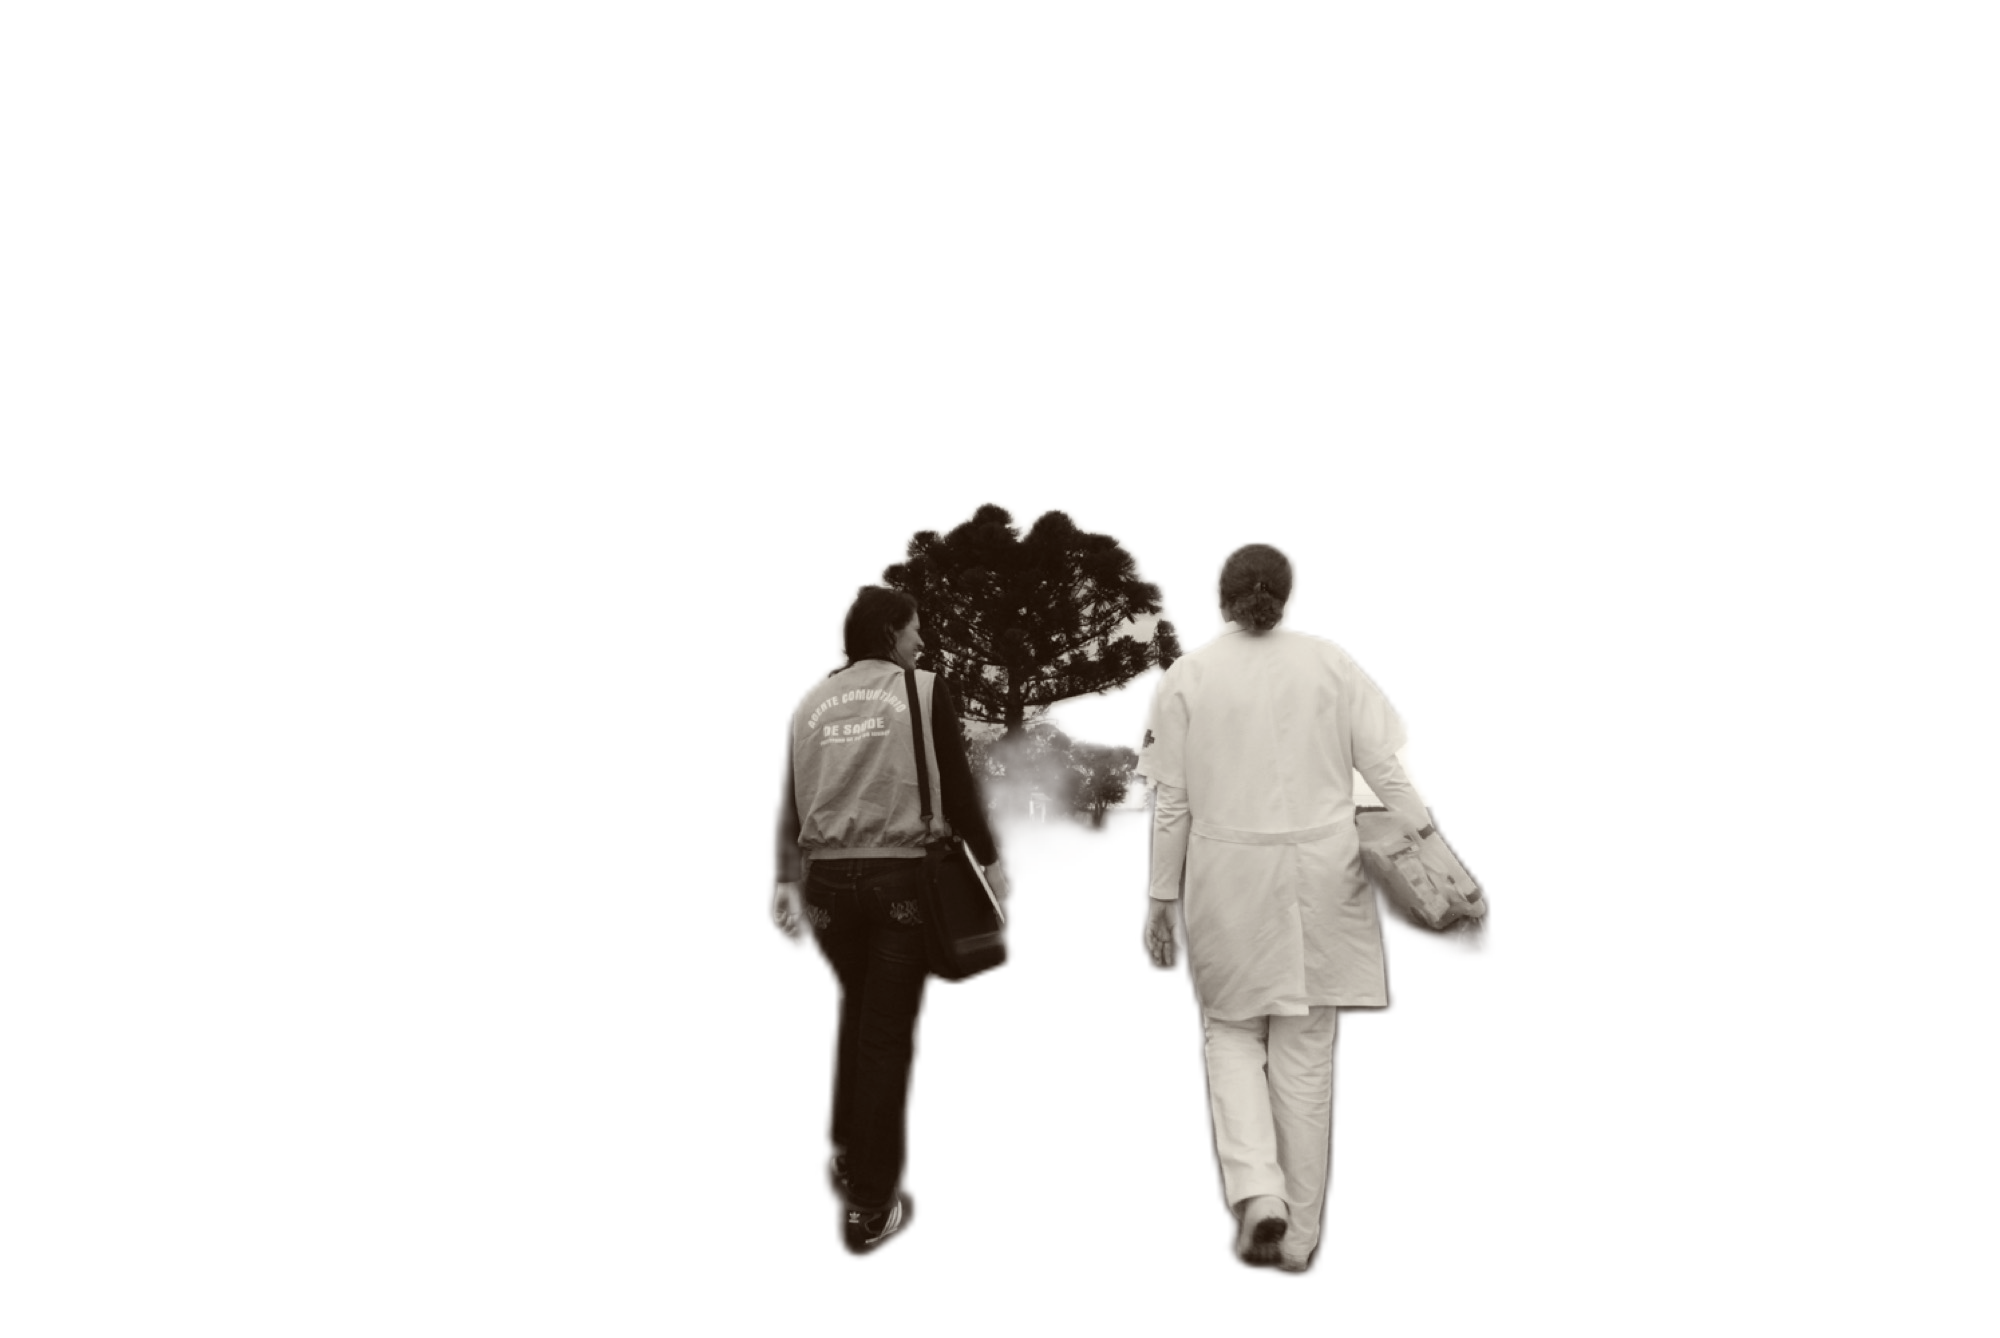
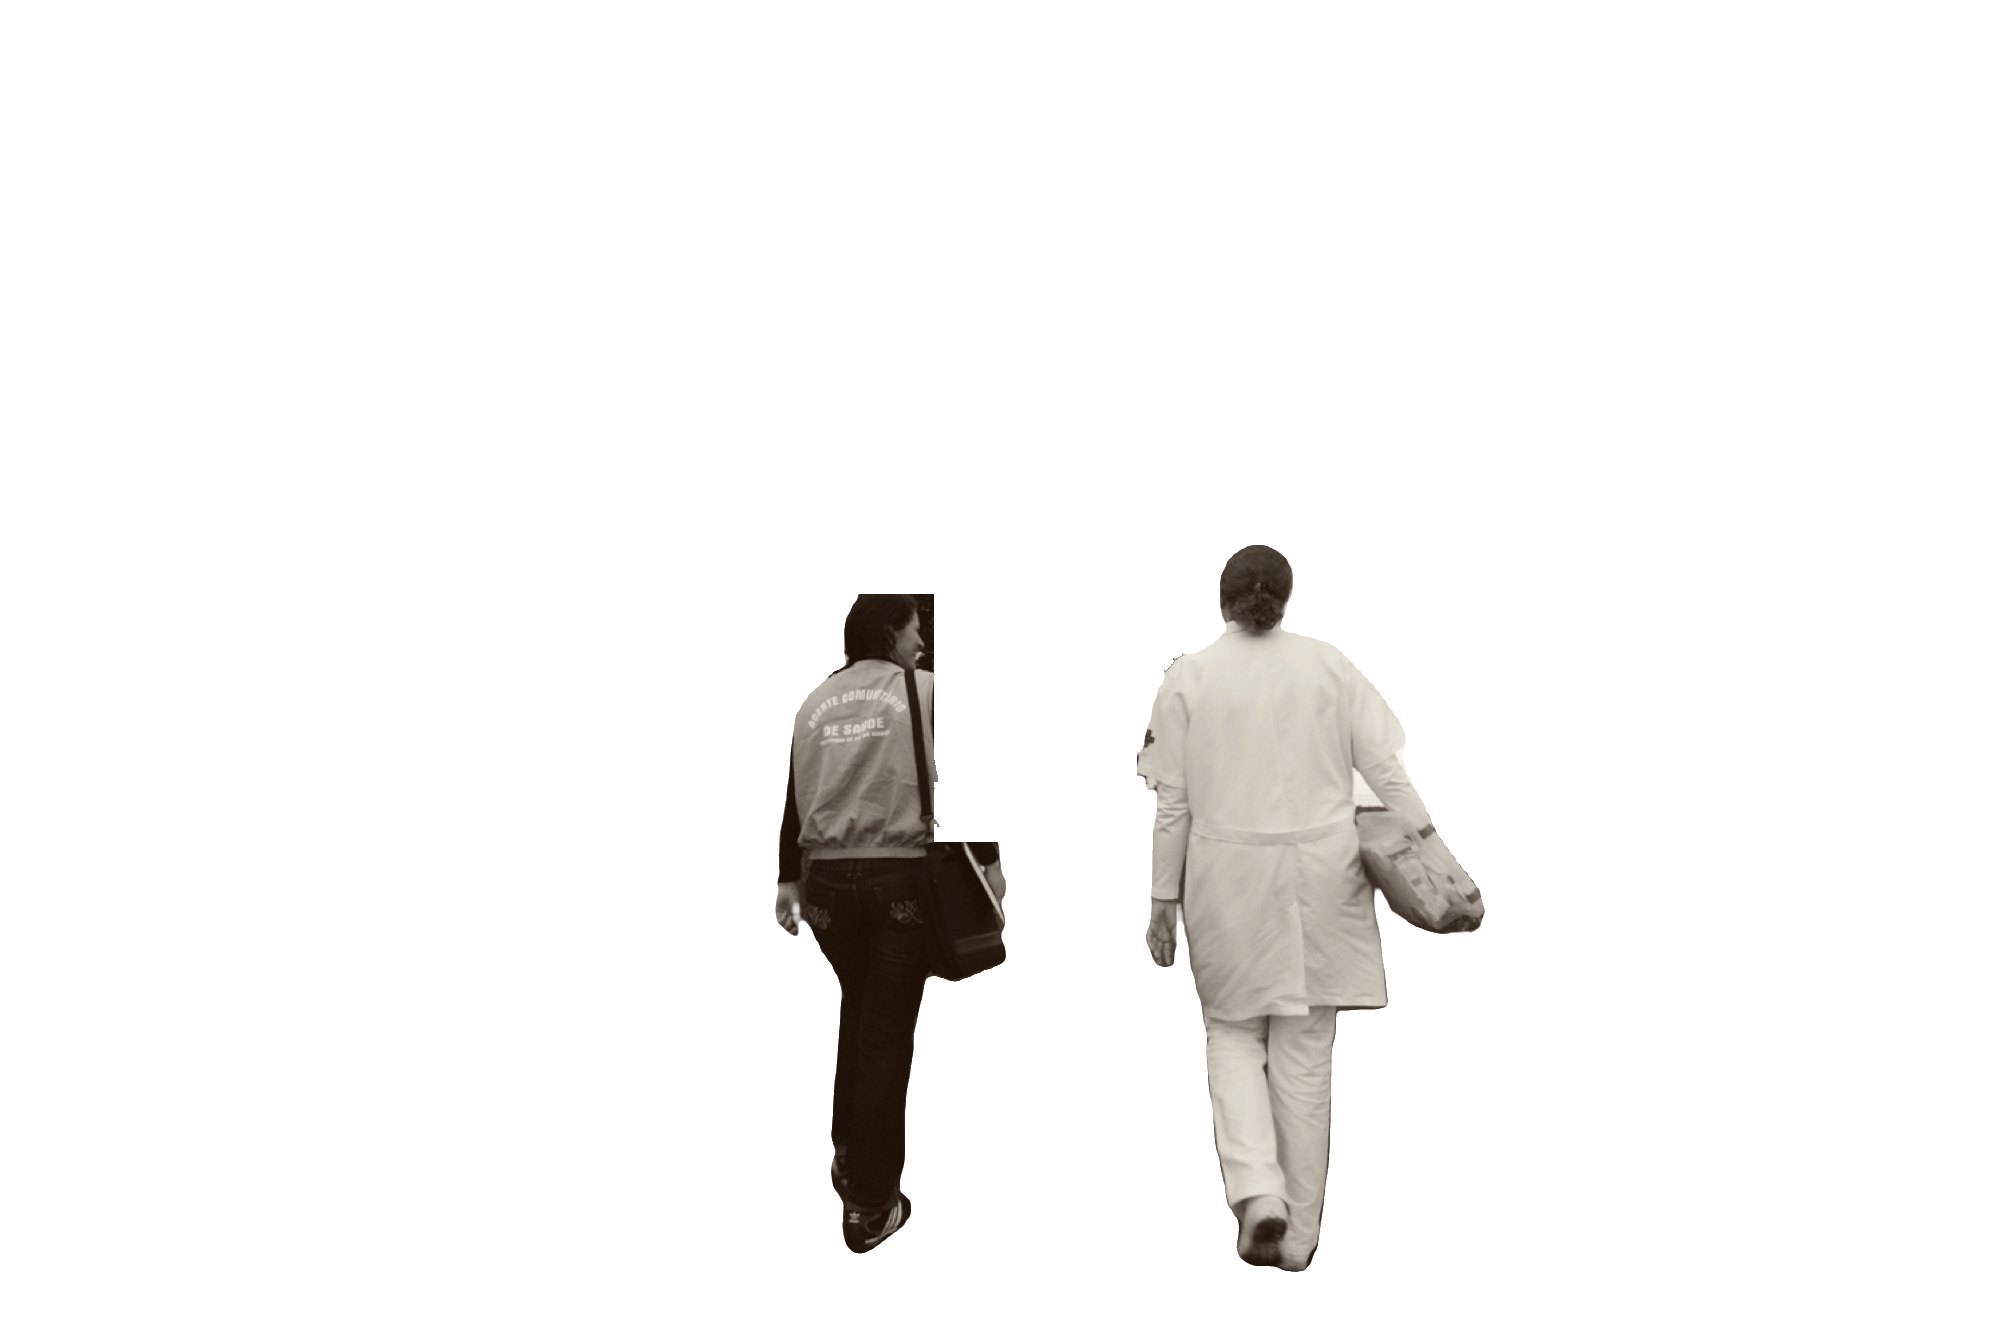
auto: codigo, sessoes - 2026-08-22 19:01

diff --git a/codigo/site/pitch-serasa/index-v4.html b/codigo/site/pitch-serasa/index-v4.html
@@ -11,7 +11,7 @@
 <!-- 01 CAPA -->
 <section class="slide veu-base" id="s1">
   <div class="slide__foto"><img src="../home/img/radilson/hero-estrada.jpg" alt="Estrada de terra no interior"></div>
-  <span class="capa-palavra" aria-hidden="true">Públicos</span>
+  <span class="capa-palavra" aria-hidden="true">Brasil</span>
   <img class="capa-pessoas" src="img/capa-pessoas.png" alt="Duas profissionais de saude caminhando por uma estrada de terra">
   <div class="faixa rev">
     <p class="faixa__t">Inscrição para o <b>Impulsiona Startups</b>, eixo Inovação em Saúde, 2026&nbsp;a&nbsp;2027.</p>

diff --git a/codigo/site/pitch-serasa/pitch.css b/codigo/site/pitch-serasa/pitch.css
@@ -1809,3 +1809,12 @@ html{font-size:clamp(10px,calc(min(100vw,100vh * 16 / 9) / 80),16px)}
     rgba(30,14,3,.93) 0%,rgba(30,14,3,.86) 34%,rgba(30,14,3,.62) 56%,
     rgba(30,14,3,.30) 76%,rgba(30,14,3,.10) 100%)!important;
 }
+/* A palavra deixa de ser marca d'agua: "PAAPS Brasil" se le com a marca logo
+   acima, entao ela e nome proprio e vem cheia, sem transparencia. Um pouco
+   menor que a anterior, porque opaca ela pesa muito mais. */
+#s1 .capa-palavra{
+  color:var(--amarelo);
+  font-size:clamp(3.4rem,12.4vw,12.4rem);
+  top:36%;left:52%;
+  text-shadow:0 6px 40px rgba(20,9,2,.75);
+}

diff --git a/sessoes/sessao-2026-08-22.md b/sessoes/sessao-2026-08-22.md
@@ -107,3 +107,12 @@
 ?? codigo/site/pitch-serasa/img/capa-pessoas.png
 ```
 
+
+## 19:01
+```
+ M codigo/site/pitch-serasa/img/capa-pessoas.png
+ M codigo/site/pitch-serasa/index-v4.html
+ M codigo/site/pitch-serasa/pitch.css
+?? codigo/site/pitch-serasa/slide-01-capa.png
+```
+
